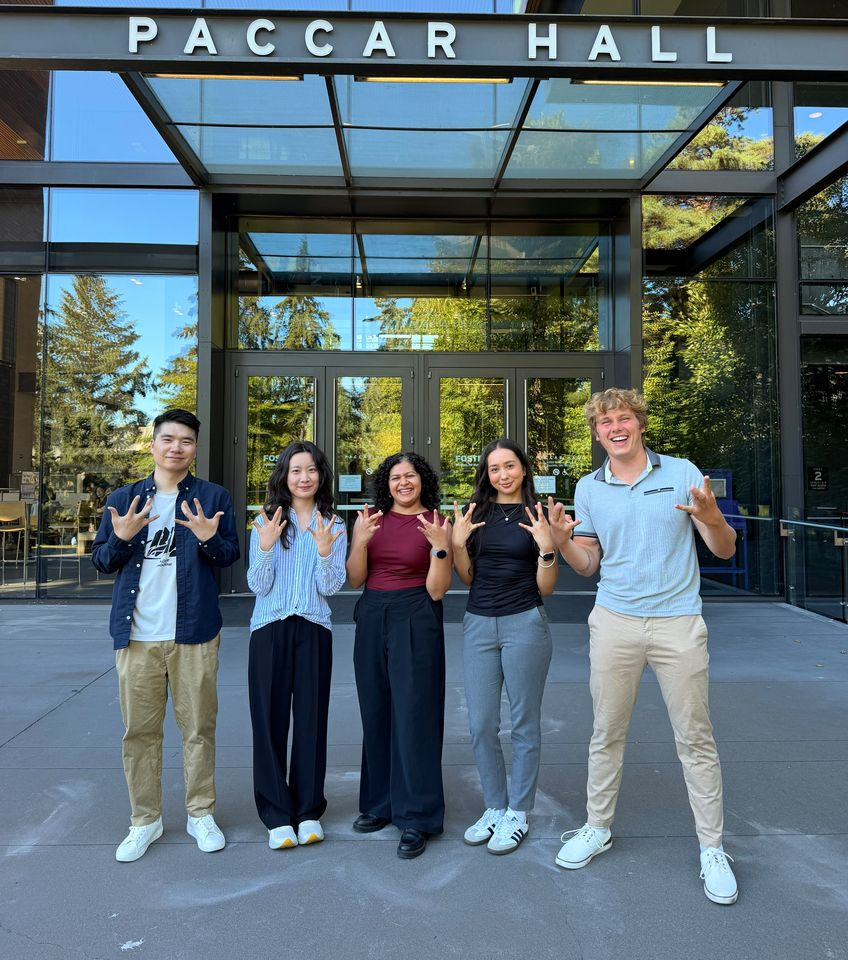
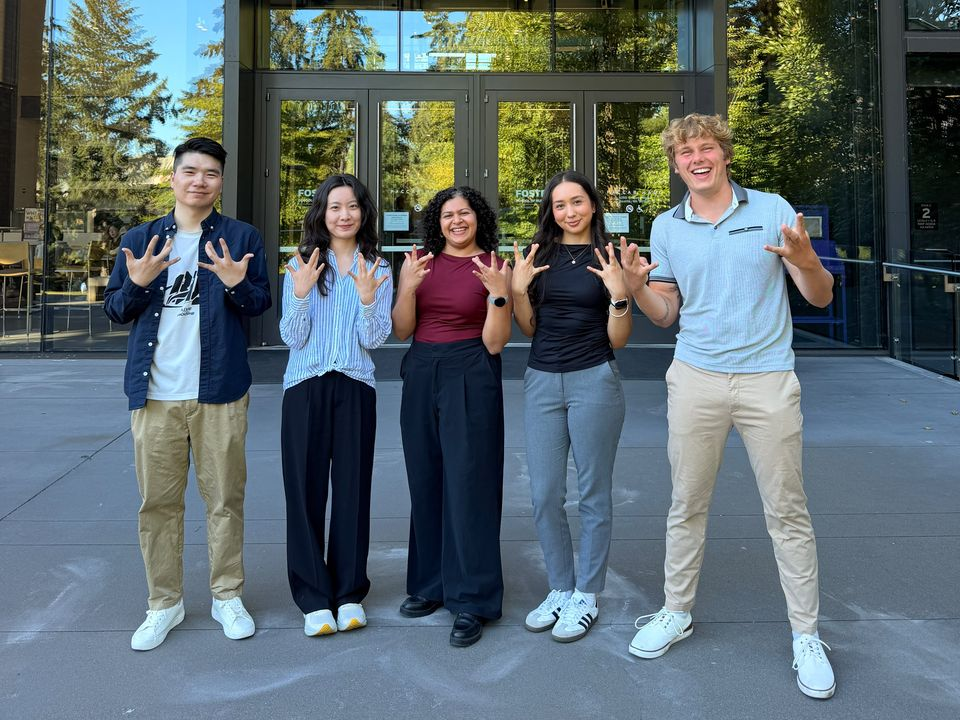
My Story: three equal landscape photos below each paragraph
Claude-Session: https://claude.ai/code/session_01LAErVZXWBNpZfMRLt6JfWz

diff --git a/index.html b/index.html
@@ -138,25 +138,13 @@ footer { margin-block: 64px 40px; font-size: 11px; letter-spacing: .14em; text-t
   .entry { grid-template-columns: minmax(0, 1fr); gap: 6px; }
   .card, .skills > div { padding: 24px; }
 }
-.story { display: grid; grid-template-columns: minmax(0, 1.05fr) minmax(0, 1fr); grid-auto-flow: row dense; column-gap: 56px; row-gap: 56px; align-items: center; }
-.story > p { grid-column: 1; font-size: 18px; line-height: 1.8; color: var(--ink); max-width: none; margin: 0; }
-.story > p:nth-of-type(even) { grid-column: 2; }
-.story > p:nth-of-type(even) + .story-photos { grid-column: 1; }
-.story > p:last-child { grid-column: 1 / -1; max-width: 46em; }
+.story { display: flex; flex-direction: column; gap: 28px; }
+.story > p { font-size: 18px; line-height: 1.8; color: var(--ink); max-width: none; margin: 0; }
 .story p:first-child::first-letter { font-family: var(--serif); font-size: 3.4em; float: left; line-height: .85; padding: 6px 10px 0 0; color: var(--navy); }
-.story-photos { grid-column: 2; display: grid; grid-template-columns: minmax(0, 1.4fr) minmax(0, 1fr); gap: 12px; }
+.story-photos { display: grid; grid-template-columns: repeat(3, minmax(0, 1fr)); gap: 14px; margin-bottom: 28px; }
 .story-photos figure { margin: 0; display: flex; flex-direction: column; gap: 6px; min-width: 0; }
-.story-photos figure:first-child { grid-row: 1 / span 2; }
 .story-photos img { width: 100%; aspect-ratio: 4 / 3; object-fit: cover; display: block; border-radius: 2px; }
-.story-photos figure:first-child img { aspect-ratio: auto; flex: 1 1 0; min-height: 0; }
 .story-photos figcaption { font-size: 12px; line-height: 1.4; color: var(--muted); }
-@media (max-width: 860px) {
-  .story { grid-template-columns: minmax(0, 1fr); row-gap: 24px; }
-  .story > p, .story > p:nth-of-type(even), .story > p:nth-of-type(even) + .story-photos, .story-photos { grid-column: 1; }
-  .story-photos { margin-bottom: 16px; grid-template-columns: repeat(3, minmax(0, 1fr)); }
-  .story-photos figure:first-child { grid-row: auto; }
-  .story-photos figure:first-child img { aspect-ratio: 4 / 3; flex: none; }
-}
 @media (max-width: 560px) {
   .story-photos { grid-template-columns: minmax(0, 1fr); }
 }
@@ -228,7 +216,7 @@ footer { margin-block: 64px 40px; font-size: 11px; letter-spacing: .14em; text-t
         </div>
         <p>That lesson brought me to Seattle, where I'm now pursuing an MS in Business Analytics at the University of Washington Foster School of Business. I'm learning to use the machine learning and AI, to help businesses make better decisions, and to be the person who understands both what these tools can do and what the business actually needs.</p>
         <div class="story-photos">
-          <figure><img src="photos/uw-team.jpg" alt="Delphine with her MSBA team, The Data Surfers, in front of PACCAR Hall" loading="lazy" style="object-position: 50% 70%"><figcaption>With my MSBA team, The Data Surfers, at PACCAR Hall</figcaption></figure>
+          <figure><img src="photos/uw-team.jpg" alt="Delphine with her MSBA team, The Data Surfers, in front of PACCAR Hall" loading="lazy"><figcaption>With my MSBA team, The Data Surfers, at PACCAR Hall</figcaption></figure>
           <figure><img src="photos/uw-foster.jpg" alt="Atrium of the Foster School of Business" loading="lazy"><figcaption>Foster School of Business</figcaption></figure>
           <figure><img src="photos/seattle-waterfront.jpg" alt="Seattle waterfront with the Great Wheel and Mount Rainier" loading="lazy"><figcaption>Seattle, my new home</figcaption></figure>
         </div>
